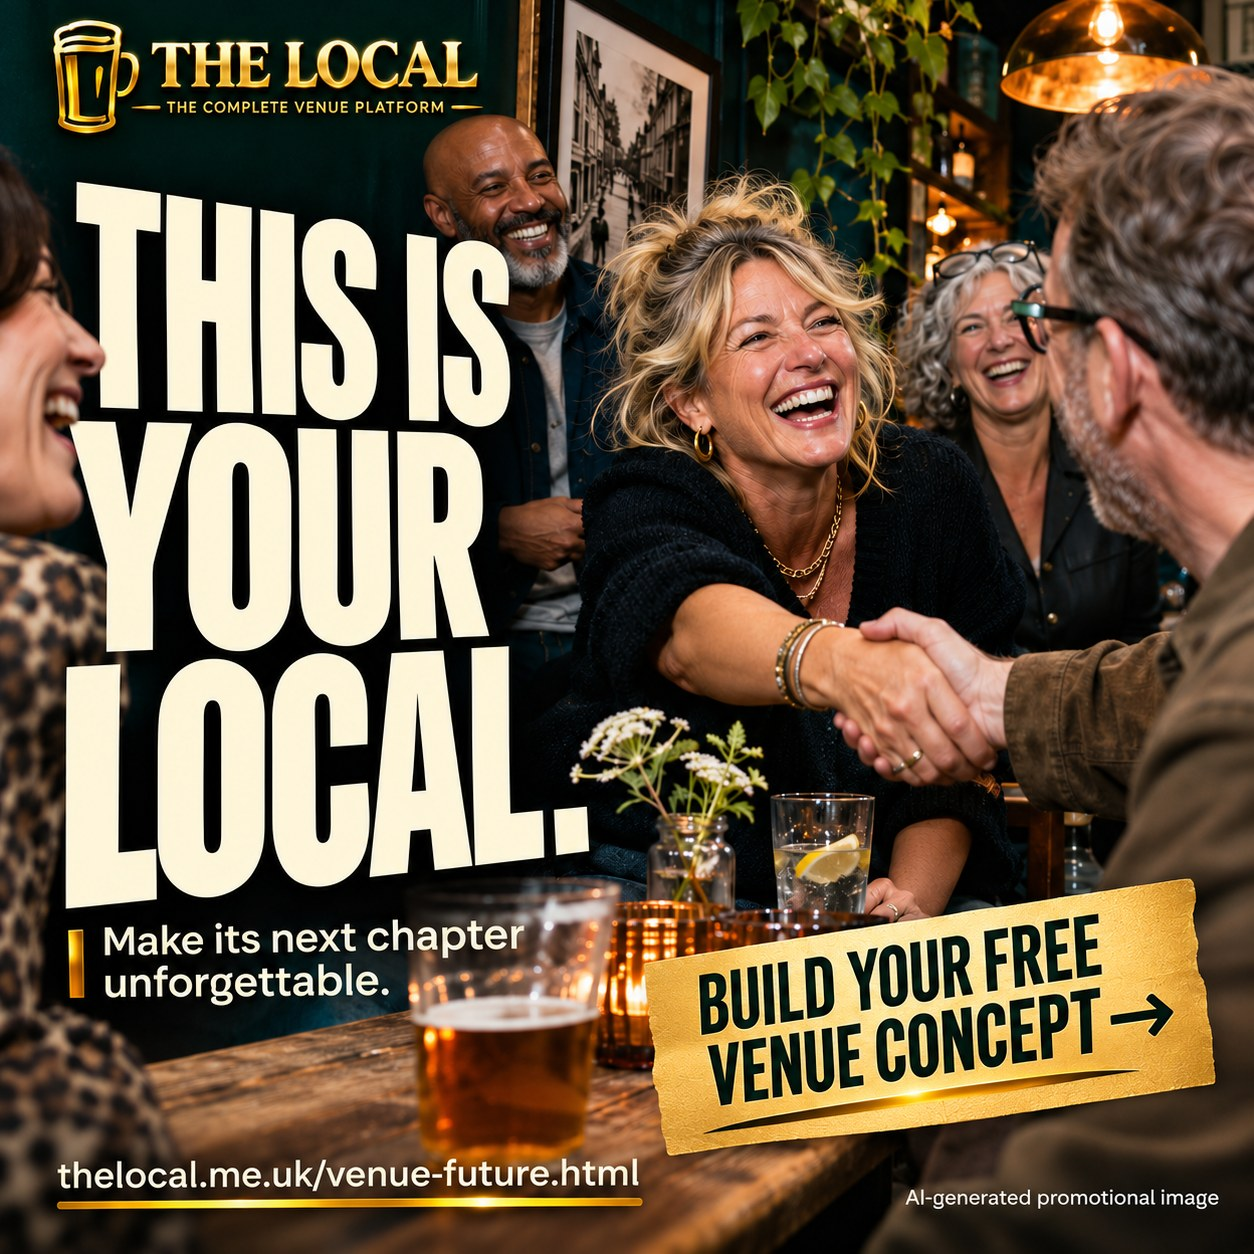
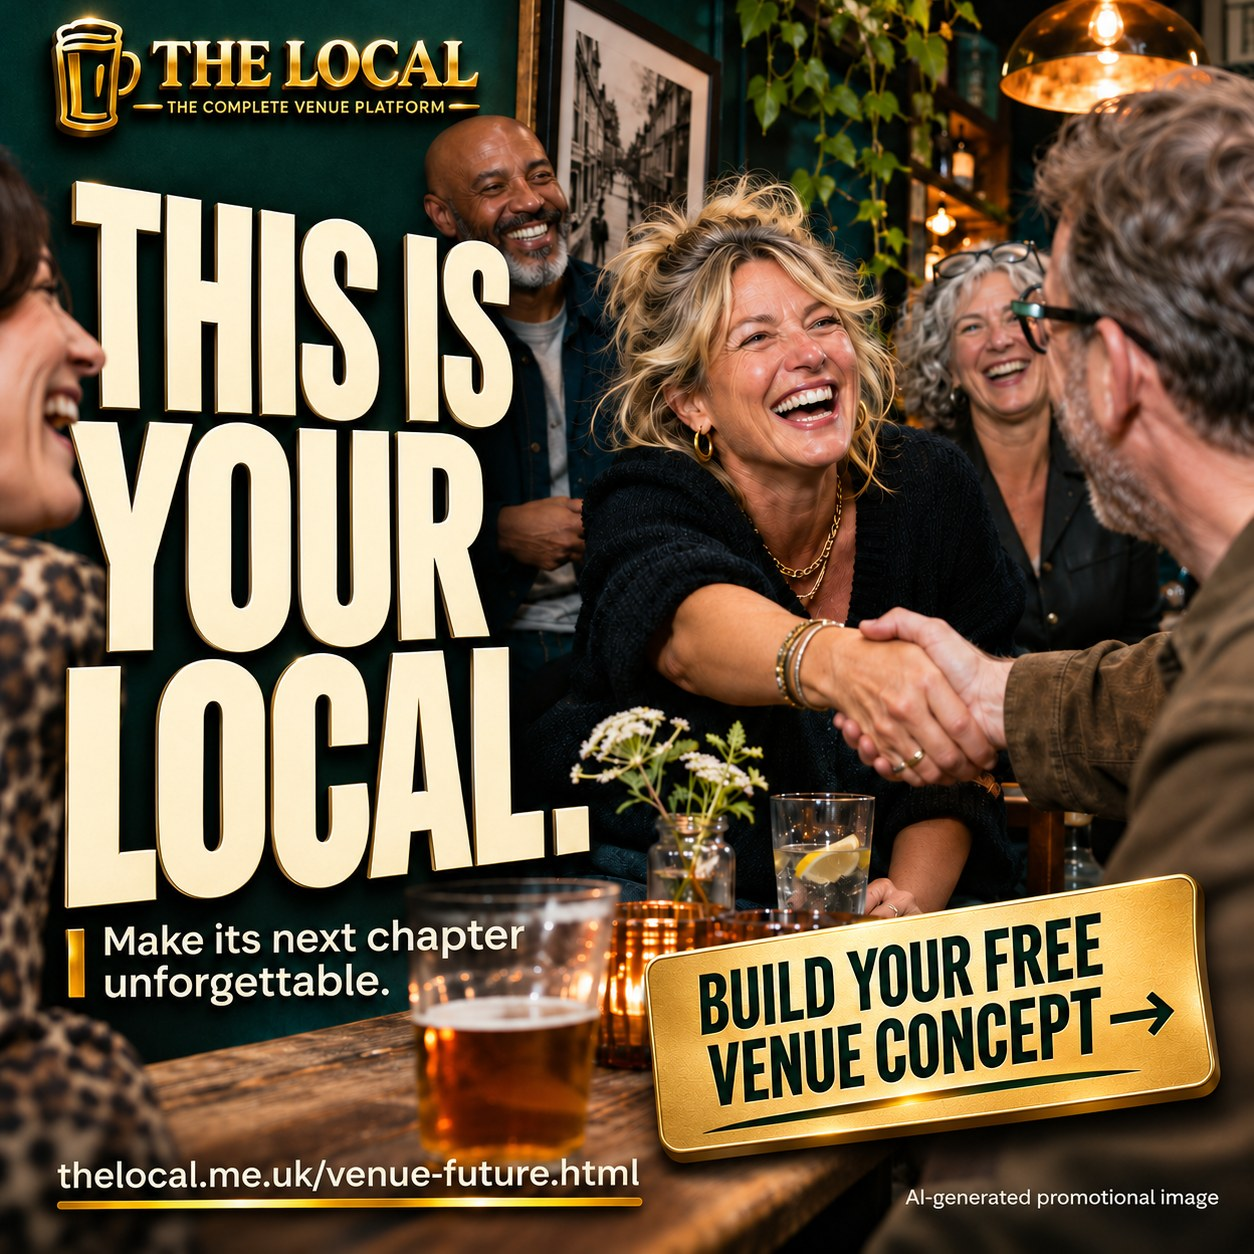
Add restrained 3D depth to gold campaign creative

diff --git a/venue-future.css b/venue-future.css
@@ -8,3 +8,6 @@
 
 /* Preserve the official emerald-and-gold identity in the editorial campaign. */
 .official-logo{display:block;width:285px;max-width:45vw;height:auto}.wordmark{line-height:1}header{padding-top:15px;padding-bottom:15px}.nav-cta{border-color:#e6c17b99}.primary{background:linear-gradient(120deg,#e6c17b,#f4dca5);border-color:#e6c17b}.primary:hover{background:#f8d89e}@media(max-width:760px){.official-logo{width:200px;max-width:45vw}header{gap:12px}}
+
+/* Restrained depth, while retaining reduced-motion preferences. */
+.hero h1{text-shadow:1px 1px 0 #b59b67,2px 2px 0 #7f6638,4px 7px 16px #0008}.hero-art{perspective:1000px}.hero-art img{box-shadow:0 8px 0 #4b3d20,0 15px 0 #221f14,0 35px 65px #0009}.hero .primary{box-shadow:0 5px 0 #977239,0 12px 25px #0006}.hero .primary:hover{transform:translateY(-2px);box-shadow:0 7px 0 #977239,0 16px 30px #0007}.official-logo{filter:drop-shadow(0 4px 5px #0008)}

diff --git a/marketing/next-chapter-campaign.md b/marketing/next-chapter-campaign.md
@@ -58,3 +58,5 @@ The campaign hero and Facebook preview use `assets/campaigns/next-chapter-gold.j
 The final art direction uses oversized editorial typography, gold accents and a realistic candid greeting scene. The website hero matches the Facebook creative.
 
 Brand correction: the page header uses the repository’s official gold pint-glass logo. The advert uses that supplied logo reference and warm gold accents, preserving the bolder photographic layout.
+
+Final creative adds restrained 3D bevels, physical gold plaque depth and soft shadows, preserving natural photography and official gold identity.
